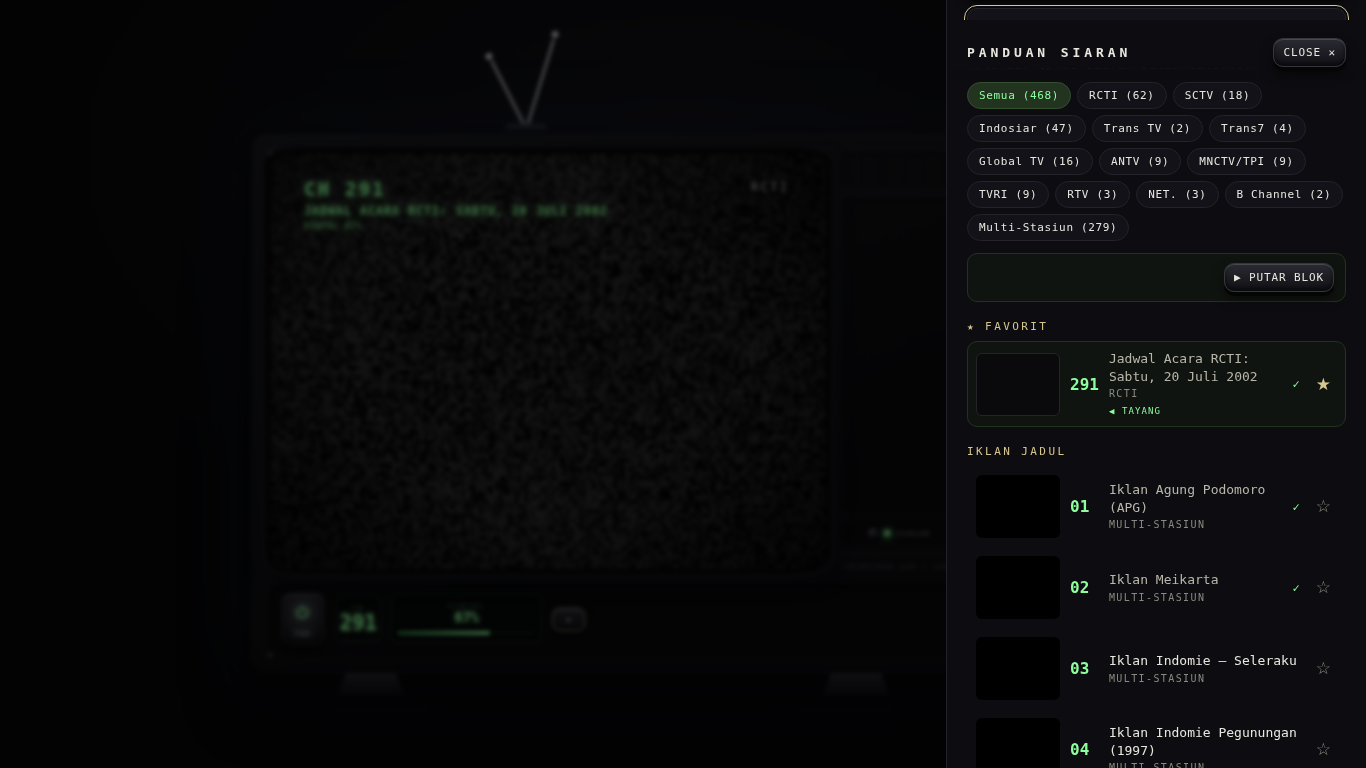
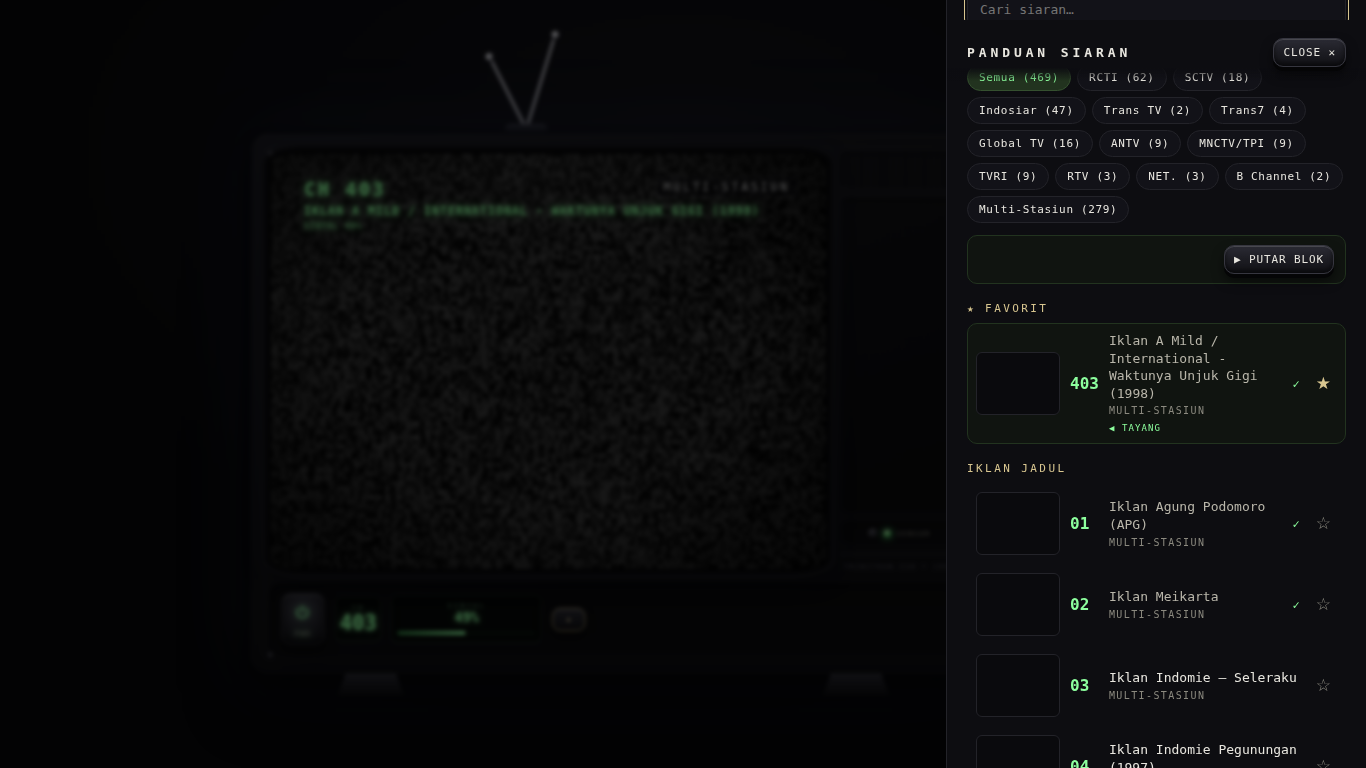
audit siklus 138: regression 46/46 hijau

diff --git a/AUDIT_LOG.md b/AUDIT_LOG.md
@@ -1950,6 +1950,18 @@ memakai jam terverifikasi. Stop condition deadline 12:00 WIB → tersisa ±7 jam
 
 **Total siklus tercatat: 137**
 
+---
+
+## Siklus 138 — 2026-10-11 ~07:56 WIB — Regression pass siklus 134–138
+
+- **Area:** Test suite (fungsi tersentuh: katalog +1).
+- **Hasil:** smoke 18/18 · remote-click 18/18 (0 pageerror) · hold-repeat 3/3 ·
+  guide-chunk 7/7. **46/46 hijau.**
+- **Test:** Semua dijalankan nyata.
+- **Next:** Lanjut.
+
+**Total siklus tercatat: 138**
+
 > **Koreksi waktu (04:01 WIB):** timestamp siklus 33–55 di atas adalah estimasi dan
 > ternyata kelebihan ±5 jam. Waktu terverifikasi saat siklus 55: **2026-10-11 04:01 WIB**
 > (`date` sistem). Mulai siklus 56, timestamp memakai jam sistem yang benar.
